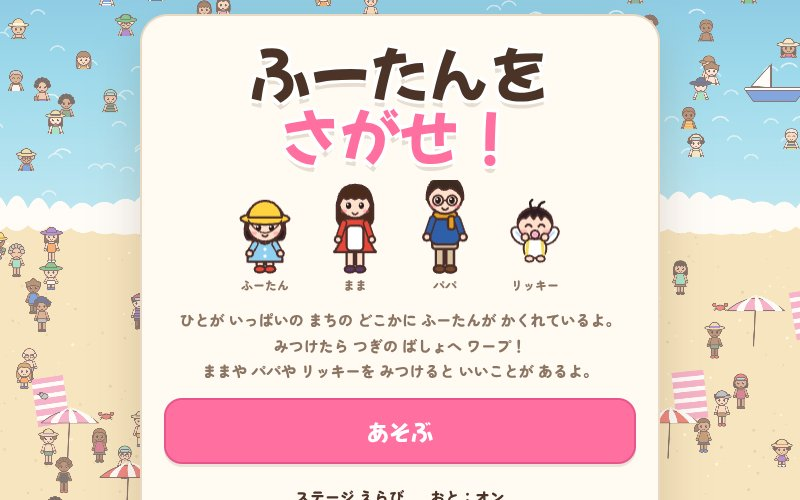
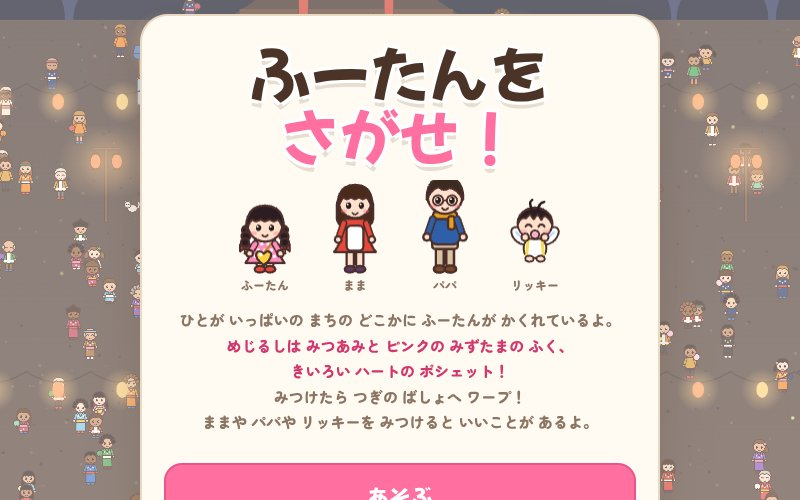
ふーたんを さがせ！: ふーたんを みつあみ・ピンクの みずたま・きいろい ハートの ポシェットに変更
Claude-Session: https://claude.ai/code/session_01JH885u7HFSciCaK1Av6Fof

diff --git a/futan-sagase/src/10_chars.js b/futan-sagase/src/10_chars.js
@@ -23,6 +23,7 @@ function drawPerson(c,o){
   if(hs==='bob'){c.beginPath();c.moveTo(-hr-1.5,hy);c.bezierCurveTo(-hr-2,hy-hr*1.7,hr+2,hy-hr*1.7,hr+1.5,hy);c.quadraticCurveTo(hr+3,hy+8,hr,hy+11);c.quadraticCurveTo(0,hy+13,-hr,hy+11);c.quadraticCurveTo(-hr-3,hy+8,-hr-1.5,hy);c.closePath();FS(c,hc)}
   if(hs==='pony'){ell(c,hr+1,hy+5,4.5,8,-.4);FS(c,hc)}
   if(hs==='twin'){ell(c,-hr-3,hy+4,4.5,7.5,.4);FS(c,hc);ell(c,hr+3,hy+4,4.5,7.5,-.4);FS(c,hc)}
+  if(hs==='braid'){for(const k of[-1,1]){for(let i=0;i<3;i++){ell(c,k*(hr+.5+i*.6),hy+4+i*4.6,3.5-i*.3,3.1,k*.3);FS(c,hc)}const bx=k*(hr+1.8),by=hy+17;c.save();c.translate(bx,by);poly(c,[[0,0],[-3.4,-2.6],[-3.4,2.6]]);FS(c,o.ribbon||'#e8504a');poly(c,[[0,0],[3.4,-2.6],[3.4,2.6]]);FS(c,o.ribbon||'#e8504a');circ(c,0,0,1.2);FS(c,o.ribbon||'#e8504a');c.restore();c.lineWidth=1.1;line(c,bx,by+1,bx+k*.4,by+4.5);ink(c)}}
   // ---- legs ----
   const legC=o.legCol||(top==='astro'?'#eef1f5':top==='diver'?'#2c3a4e':top==='knight'?'#aab1bb':(o.fem&&!o.pants)||top==='swim'?sk:bc);
   const spread=o.pose==='walk'?3:0;
@@ -71,7 +72,9 @@ function drawPerson(c,o){
     rr(c,-sw,sy,2*sw,hip-sy+1,5);FS(c,tc);
     if(o.stripe){c.save();rr(c,-sw,sy,2*sw,hip-sy+1,5);c.clip();c.fillStyle=o.stripe;for(let y=sy+3;y<hip;y+=5)c.fillRect(-sw,y,2*sw,2.2);c.restore();rr(c,-sw,sy,2*sw,hip-sy+1,5);c.stroke()}
   }
+  if(o.dots){const sw2=top==='swim'?6:sw-2,y0=top==='swim'?sy+6:sy+3,y1=top==='swim'?hip-1:top==='dress'?hip+3:hip;c.fillStyle=o.dots;for(let y=y0,r=0;y<y1;y+=4.6,r++)for(let x=-sw2+(r%2)*2.3;x<=sw2;x+=4.6){circ(c,x,y,1.15);c.fill()}}
   if(A.scarf){rr(c,-8,sy-2,16,5,2.5);FS(c,A.scarf);rr(c,2,sy+1,4.5,9,2);FS(c,A.scarf)}
+  if(A.pochette){c.lineWidth=1.5;c.strokeStyle='#c98a20';line(c,sw-3,sy+1,-2,hip-1);ink(c);heart(c,-1,hip+1,6);FS(c,A.pochette);circ(c,-3,hip-1,1.3);F(c,'#fff')}
   if(A.bag){c.lineWidth=1.2;line(c,-6,sy,8,hip-2);c.lineWidth=1.6;rr(c,5,hip-5,9,8,2);FS(c,A.bag)}
   // ---- arms ----
   const armC=top==='swim'?sk:top==='astro'?'#f4f6fa':top==='diver'?'#2c3a4e':top==='knight'?'#c3c8cf':top==='yukata'||top==='happi'||top==='smock'||top==='ski'||top==='coat'||top==='princess'?tc:(o.short?sk:tc);
@@ -106,7 +109,7 @@ function drawPerson(c,o){
   case 'bald':c.beginPath();c.arc(0,hy,hr,Math.PI*.95,Math.PI*1.05);c.stroke();ell(c,-hr+1,hy+1,2.6,4);FS(c,hc);ell(c,hr-1,hy+1,2.6,4);FS(c,hc);break;
   case 'spiky':c.beginPath();c.moveTo(-hr-1,hy+1);for(let i=0;i<=6;i++){const a=Math.PI+i/6*Math.PI;c.lineTo(Math.cos(a)*(hr+(i%2?5:1)),hy+Math.sin(a)*(hr+(i%2?5:1)))}c.lineTo(hr+1,hy+1);c.quadraticCurveTo(0,hy-6,-hr-1,hy+1);c.closePath();FS(c,hc);break;
   case 'curly':for(let i=0;i<7;i++){const a=Math.PI*(1.02+i*.16);circ(c,Math.cos(a)*hr,hy+Math.sin(a)*hr,4.2);FS(c,hc)}break;
-  case 'bob':case 'pattsun':
+  case 'bob':case 'pattsun':case 'braid':
     c.beginPath();c.moveTo(-hr-1,hy+4);c.quadraticCurveTo(-hr-1.5,hy-hr-1,0,hy-hr-1);c.quadraticCurveTo(hr+1.5,hy-hr-1,hr+1,hy+4);c.lineTo(hr-2,hy-2);
     for(let i=0;i<=6;i++)c.lineTo(hr-3-i*((2*hr-6)/6),hy-3.5+(i%2?1.4:0));c.lineTo(-hr+2,hy-2);c.closePath();FS(c,hc);break;
   default: // short, long, pony, twin, bun
@@ -142,7 +145,8 @@ function drawPerson(c,o){
 }
 
 // ---- the family ----
-const LOOK_FUTAN={age:'kid',fem:true,skin:SKIN,hair:'bob',hairCol:HAIR,top:'smock',topCol:FUTAN_SMOCK,hat:'yochien',hatCol:FUTAN_HAT,shoe:'#e8483a',legCol:SKIN};
+// ふーたん: みつあみ・ピンクの みずたまの ワンピース・きいろい ハートの ポシェット（ポシェットは ふーたん だけ）
+const LOOK_FUTAN={age:'kid',fem:true,skin:SKIN,hair:'braid',hairCol:HAIR,ribbon:'#e8504a',top:'dress',topCol:FUTAN_PINK,dots:'#fff',shoe:'#e8483a',legCol:SKIN,acc:{pochette:FUTAN_BAG}};
 const LOOK_MAMA={age:'adult',fem:true,hair:'pattsun',hairCol:'#4a2a1a',top:'dress',topCol:'#e8483a',apron:true,shoe:'#5a3a6a'};
 const LOOK_PAPA={age:'adult',hair:'short',hairCol:'#3a2a20',top:'shirt',topCol:'#2f5fa8',botCol:'#d8c4a0',shoe:'#7a4a2a',acc:{scarf:'#e8a020',glasses:true},s:1.08};
 // stage outfits keep the family recognisable

diff --git a/futan-sagase/src/_head.html b/futan-sagase/src/_head.html
@@ -21,7 +21,7 @@ button{font-family:inherit;color:inherit;cursor:pointer}
 #hud .tl{position:absolute;left:12px;top:calc(10px + env(safe-area-inset-top));display:flex;gap:10px;align-items:center;padding:8px 14px 8px 8px;pointer-events:auto}
 #hud .tl canvas{width:58px;height:58px;border-radius:14px;background:#fff1f6;flex:none}
 #hud .tl b{display:block;font-family:var(--display);font-weight:400;font-size:19px;line-height:1.2}
-#hud .tl small{font-size:12px;font-weight:900;color:var(--soft)}
+#hud .tl small{font-size:12px;font-weight:900;color:var(--soft)}#hud .tl small.feat{display:block;font-size:11px;color:#d2386e}
 #hud .tr{position:absolute;right:12px;top:calc(10px + env(safe-area-inset-top));display:flex;gap:6px;padding:6px;pointer-events:auto}
 .slot{width:50px;height:58px;border-radius:14px;background:var(--paper2);border:2px dashed var(--line);display:flex;flex-direction:column;align-items:center;justify-content:center;font-size:10px;font-weight:900;color:var(--soft)}
 .slot canvas{width:40px;height:40px}
@@ -84,7 +84,7 @@ h2{font-family:var(--display);font-weight:400;font-size:26px;margin:0;text-align
 <canvas id="cv"></canvas>
 <div id="fx"></div>
 <div id="hud" hidden>
-  <div class="card tl"><canvas id="hudFutan" width="116" height="116"></canvas><div><small id="hudStage">ステージ 1</small><b>ふーたんは どこ？</b></div></div>
+  <div class="card tl"><canvas id="hudFutan" width="116" height="116"></canvas><div><small id="hudStage">ステージ 1</small><b>ふーたんは どこ？</b><small class="feat">みつあみ・ピンクの みずたま・<span style="color:#d9a400">ハートの ポシェット</span></small></div></div>
   <div class="card tr" id="slots"></div>
   <div class="bl"><button class="pill" id="menuBtn">ⅠⅠ</button><button class="pill" id="zoomBtn">ぜんたい</button></div>
   <div class="br"><button class="pill hint" id="hintBtn">ヒント</button></div>
@@ -93,7 +93,7 @@ h2{font-family:var(--display);font-weight:400;font-size:26px;margin:0;text-align
   <div class="panel">
     <div class="logo">ふーたんを<br><em>さがせ！</em></div>
     <div class="cast" id="cast"></div>
-    <p class="lede">ひとが いっぱいの まちの どこかに ふーたんが かくれているよ。<br>みつけたら つぎの ばしょへ ワープ！<br>ままや パパや リッキーを みつけると いいことが あるよ。</p>
+    <p class="lede">ひとが いっぱいの まちの どこかに ふーたんが かくれているよ。<br><span style="color:#d2386e">めじるしは みつあみと ピンクの みずたまの ふく、<br>きいろい ハートの ポシェット！</span><br>みつけたら つぎの ばしょへ ワープ！<br>ままや パパや リッキーを みつけると いいことが あるよ。</p>
     <div class="tstats" id="titleStats"></div>
     <button class="btn main" id="playBtn">あそぶ</button>
     <div class="links"><button class="link" id="albumBtn">ステージ えらび</button><button class="link snd" id="sndBtn">おと：オン</button></div>

diff --git a/index.html b/index.html
@@ -33,7 +33,7 @@
   <ul id="games">
     <li><a class="game" href="./futan-sagase/">
       <div class="thumb"><img src="./thumbs/futan-sagase.jpg" alt="" width="800" height="500" loading="lazy"><span class="new">NEW</span></div>
-      <div class="body"><div class="name">ふーたんを さがせ！</div><div class="desc">ひとが いっぱいの いちまいえの どこかに かくれた ふーたんを さがす ウォーリーふう さがしもの。みつけたら ワープで つぎの ばしょへ！ はるの こうえん・なつの うみ・ゆうえんち・ゆきやま・よるの なつまつり・どうぶつえん・うみの そこ・つきの うちゅうきち・おとぎの おしろ・きょうりゅうの くにの 10か所。ままを みつけると ヒントの ハート、パパを みつけると きねんしゃしん、リッキーを みつけると まほうで まちが おおさわぎ</div><div class="tags"><span>4さい〜</span><span>さがしもの</span><span>スマホ・タブレット</span></div></div>
+      <div class="body"><div class="name">ふーたんを さがせ！</div><div class="desc">ひとが いっぱいの いちまいえの どこかに かくれた ふーたん（みつあみ・ピンクの みずたま・きいろい ハートの ポシェット）を さがす ウォーリーふう さがしもの。みつけたら ワープで つぎの ばしょへ！ はるの こうえん・なつの うみ・ゆうえんち・ゆきやま・よるの なつまつり・どうぶつえん・うみの そこ・つきの うちゅうきち・おとぎの おしろ・きょうりゅうの くにの 10か所。ままを みつけると ヒントの ハート、パパを みつけると きねんしゃしん、リッキーを みつけると まほうで まちが おおさわぎ</div><div class="tags"><span>4さい〜</span><span>さがしもの</span><span>スマホ・タブレット</span></div></div>
     </a></li>
     <li><a class="game" href="./mitsuketa-town/">
       <div class="thumb"><img src="./thumbs/mitsuketa-town.jpg" alt="" width="800" height="500" loading="lazy"><span class="new">NEW</span></div>

diff --git a/futan-sagase/src/40_world.js b/futan-sagase/src/40_world.js
@@ -50,9 +50,11 @@ function buildWorld(st,seed,diff){
   // decoys: kids who share one or two things with ふーたん
   const kids=w.items.filter(it=>it.kind==='mob'&&it.look.age==='kid'&&!it.look.swim);shuffle(kids);
   for(let i=0;i<Math.min(Math.round(st.decoys*diff.decoys),kids.length);i++){const it=kids[i],o=it.look;const v=i%3;
-    if(v===0){o.hat='yochien';o.hatCol=FUTAN_HAT;if(o.topCol===FUTAN_SMOCK)o.topCol='#f28fb7'}
-    else if(v===1){o.top='smock';o.topCol=FUTAN_SMOCK;o.hat=pick(['cap','beret','bow','straw']);o.hatCol=pick(SAFE_TOPS)}
-    else{o.fem=true;o.hair='bob';o.top='smock';o.topCol=pick(['#f28fb7','#f6c63a','#7fd6b4','#f7f4ee']);o.hat='yochien';o.hatCol=pick(['#e8504a','#f28fb7','#7cc8ec','#f7f4ee'])}
+    // みつあみだけ同じ／ピンクの みずたまだけ同じ／みつあみ＋ピンク（みずたま なし）
+    if(v===0){o.fem=true;o.hair='braid';o.hairCol=pick(HAIRCOLS);o.ribbon=pick(['#3f7bd6','#4cad62','#f6c63a','#fff']);if(o.topCol===FUTAN_PINK)o.topCol='#7cc8ec';o.hat=null}
+    else if(v===1){o.top='dress';o.fem=true;o.topCol=FUTAN_PINK;o.dots='#fff';o.hair=pick(['bob','pony','short','curly']);o.hat=null}
+    else{o.fem=true;o.hair='braid';o.top='dress';o.topCol=pick([FUTAN_PINK,'#f7a8c8','#e86a9a']);o.dots=null;o.hat=null;o.ribbon=pick(['#e8504a','#fff'])}
+    o.acc=Object.assign({},o.acc);delete o.acc.pochette;
     if(st.decoyFix)st.decoyFix(o);
     it.spr=personSprite(o)}
   // animals

diff --git a/futan-sagase/src/00_base.js b/futan-sagase/src/00_base.js
@@ -31,5 +31,5 @@ function ink(c,w){c.strokeStyle=LN;c.lineWidth=w||1.6;c.lineJoin='round';c.lineC
 const COLS={red:'#e8504a',blue:'#3f7bd6',green:'#4cad62',yellow:'#f6c63a',orange:'#f28b2f',purple:'#8d5cc8',pink:'#f28fb7',sky:'#7cc8ec',white:'#f7f4ee',black:'#3b3533',brown:'#a8703f',gray:'#9fa4ab',navy:'#2f4078',mint:'#7fd6b4',cream:'#f3e1b5'};
 const CLIST=Object.values(COLS);
 // colours that would look like ふーたん's smock or hat are kept rare for the crowd (set per stage as decoys)
-const FUTAN_SMOCK='#8fd0f0',FUTAN_HAT='#ffd23f';
-const SAFE_TOPS=['#e8504a','#3f7bd6','#4cad62','#f28b2f','#8d5cc8','#f28fb7','#f7f4ee','#3b3533','#a8703f','#9fa4ab','#2f4078','#7fd6b4','#f3e1b5','#c44a6a','#5a8a6a','#e0a040'];
+const FUTAN_PINK='#ff8cc0',FUTAN_SMOCK=FUTAN_PINK,FUTAN_BAG='#ffd23f';
+const SAFE_TOPS=['#e8504a','#3f7bd6','#4cad62','#f28b2f','#8d5cc8','#7cc8ec','#f7f4ee','#3b3533','#a8703f','#9fa4ab','#2f4078','#7fd6b4','#f3e1b5','#c44a6a','#5a8a6a','#e0a040'];

diff --git a/README.md b/README.md
@@ -40,7 +40,7 @@
 ├── .nojekyll               # Jekyll 処理を無効化（ファイルをそのまま配信）
 ├── README.md
 ├── futan-sagase/
-│   ├── index.html          # ふーたんを さがせ！（ウォーリーをさがせ型。2400×1600 の 2D の一枚絵に 200〜270人の モブと 小物・どうぶつを ならべ、どこかに いる ふーたん（きいろい ようちえんぼう・みずいろ・くろかみボブ）を ドラッグ／ピンチで さがして タップ。みつけると みーつけた！の えんしゅつ → まるい ワイプで まったく ちがう つぎの ステージへ。10ステージ（はるの こうえん・なつの うみ（およぐ ひと）・ゆうがたの ゆうえんち（まわる かんらんしゃ）・ゆきやま（ゆきが ふる）・よるの なつまつり（ちょうちん）・どうぶつえん・うみの そこ（あわと ひかり）・つきの うちゅうきち・おとぎの おしろ・きょうりゅうの くに）で いしょうも ステージごと。ふーたんに にた こ（きいろい ぼうし／みずいろの ふく／ボブ）を まぜ、ものかげに かくれることも。サブキャラ：まま＝ふーたんの いる ほうに ハートの みちしるべ、パパ＝きねんしゃしん（ステージえらびに のこる）、リッキー＝ステージごとの まほう（はなびら・にじ・はなび・オーロラ・あわ・ながれぼし・かみふぶき）で まちじゅうが とびはねる。モブを タップすると しゃべって ジャンプ。1しゅうめは ひとも にた こも すくなめから だんだん ふえ、10か所 まわると 2しゅうめ・3しゅうめ（ひと・にた こ・ものかげが ふえる）。1しゅうめは 45びょう みつからないと ふーたんが ときどき ぴょんと はね、75びょうで じどうヒント。タイトルに クリア・なかま・しゃしんの かず。ヒントは だんだん せまく なる わ。BGM・こうかおん は Web Audio、セリフは 音声よみあげ。ビルド済み成果物。`window.GAME` でデバッグ）
+│   ├── index.html          # ふーたんを さがせ！（ウォーリーをさがせ型。2400×1600 の 2D の一枚絵に 200〜270人の モブと 小物・どうぶつを ならべ、どこかに いる ふーたん（みつあみ・ピンクの みずたまの ふく・ふーたん だけが もつ きいろい ハートの ポシェット）を ドラッグ／ピンチで さがして タップ。みつけると みーつけた！の えんしゅつ → まるい ワイプで まったく ちがう つぎの ステージへ。10ステージ（はるの こうえん・なつの うみ（およぐ ひと）・ゆうがたの ゆうえんち（まわる かんらんしゃ）・ゆきやま（ゆきが ふる）・よるの なつまつり（ちょうちん）・どうぶつえん・うみの そこ（あわと ひかり）・つきの うちゅうきち・おとぎの おしろ・きょうりゅうの くに）で いしょうも ステージごと。ふーたんに にた こ（みつあみ／ピンクの みずたま／みつあみ＋ピンク）を まぜ、ものかげに かくれることも。サブキャラ：まま＝ふーたんの いる ほうに ハートの みちしるべ、パパ＝きねんしゃしん（ステージえらびに のこる）、リッキー＝ステージごとの まほう（はなびら・にじ・はなび・オーロラ・あわ・ながれぼし・かみふぶき）で まちじゅうが とびはねる。モブを タップすると しゃべって ジャンプ。1しゅうめは ひとも にた こも すくなめから だんだん ふえ、10か所 まわると 2しゅうめ・3しゅうめ（ひと・にた こ・ものかげが ふえる）。1しゅうめは 45びょう みつからないと ふーたんが ときどき ぴょんと はね、75びょうで じどうヒント。タイトルに クリア・なかま・しゃしんの かず。ヒントは だんだん せまく なる わ。BGM・こうかおん は Web Audio、セリフは 音声よみあげ。ビルド済み成果物。`window.GAME` でデバッグ）
 │   ├── build.py            # src/*.js を連結して index.html を生成
 │   └── src/                # 00 基盤、10 キャラ（ふーたん・まま・パパ・リッキー・モブ・どうぶつ）、20 小物、30 おと、40 せかい（スプライト・配置・描画）、45 えんしゅつ・ふきだし、50/51 ステージ、60 ゲームの ながれ、90 入力・ループ
 ├── mitsuketa-town/
